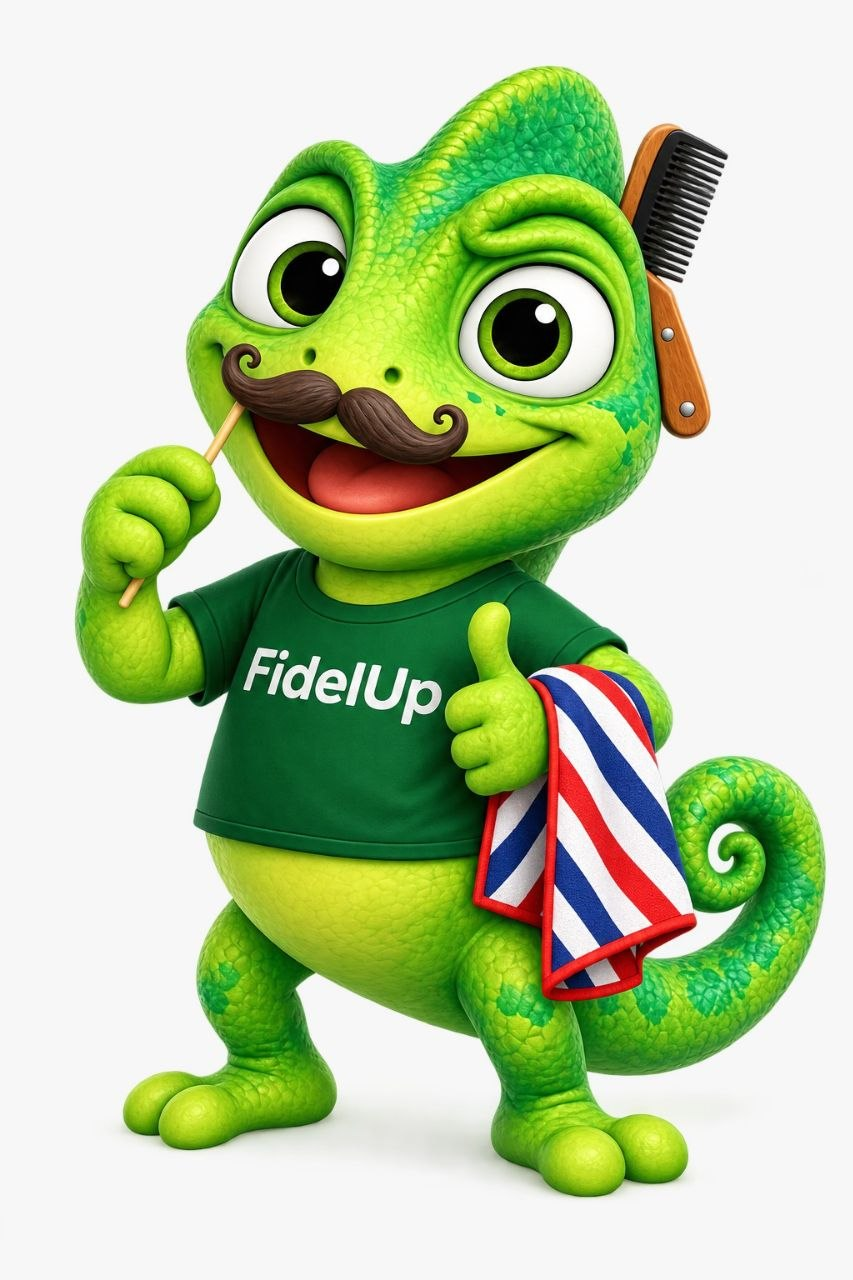
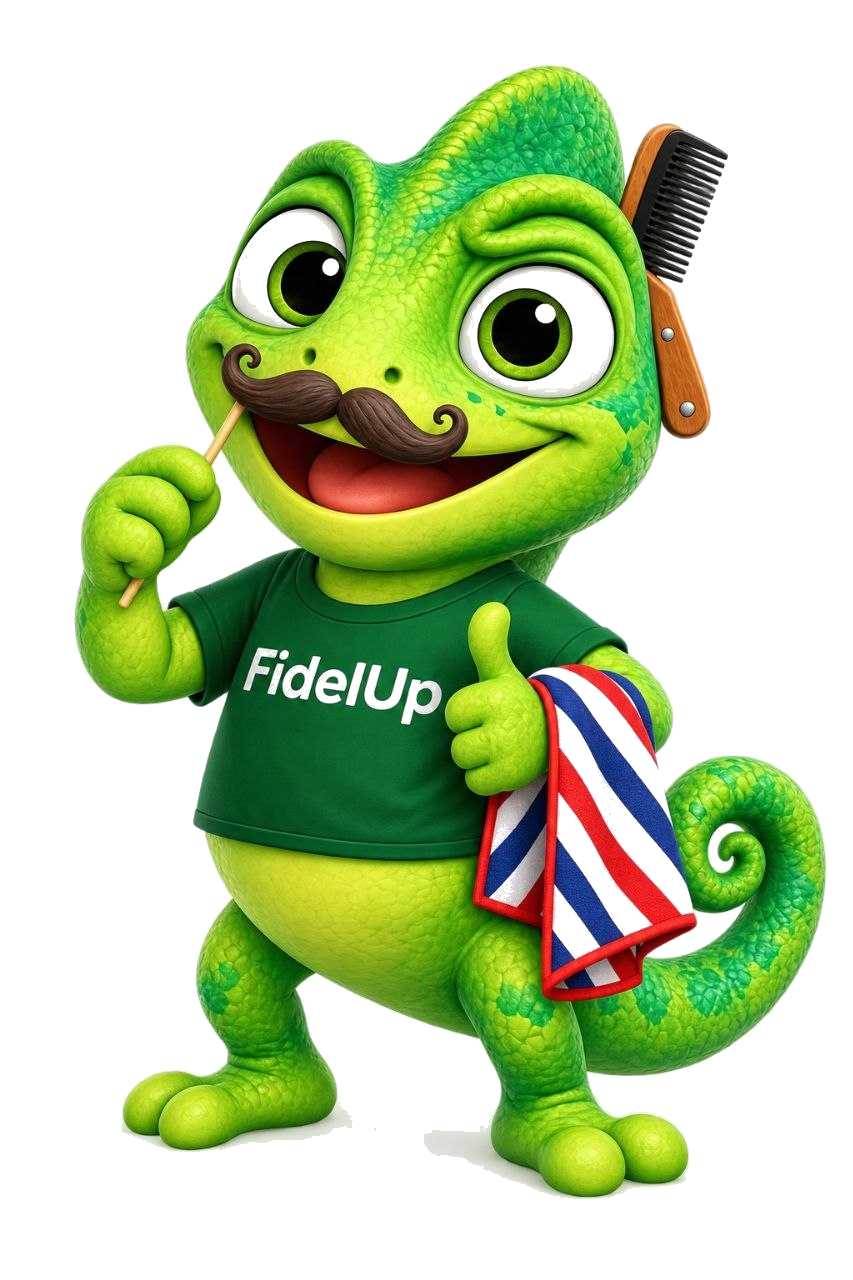
Remove white background from Nino barber image (transparent PNG)

diff --git a/fidelup-quiz.html b/fidelup-quiz.html
@@ -73,7 +73,7 @@
     }
 
     .nino-wrap { display: flex; justify-content: center; margin-bottom: 16px; }
-    .nino-wrap img { height: 200px; width: auto; object-fit: contain; mix-blend-mode: multiply; }
+    .nino-wrap img { height: 200px; width: auto; object-fit: contain; }
 
     .title-main { font-size: clamp(1.8rem, 7vw, 2.3rem); text-align: center; margin-bottom: 16px; }
     .subtitle { text-align: center; font-size: 1.1rem; margin-bottom: 32px; }
